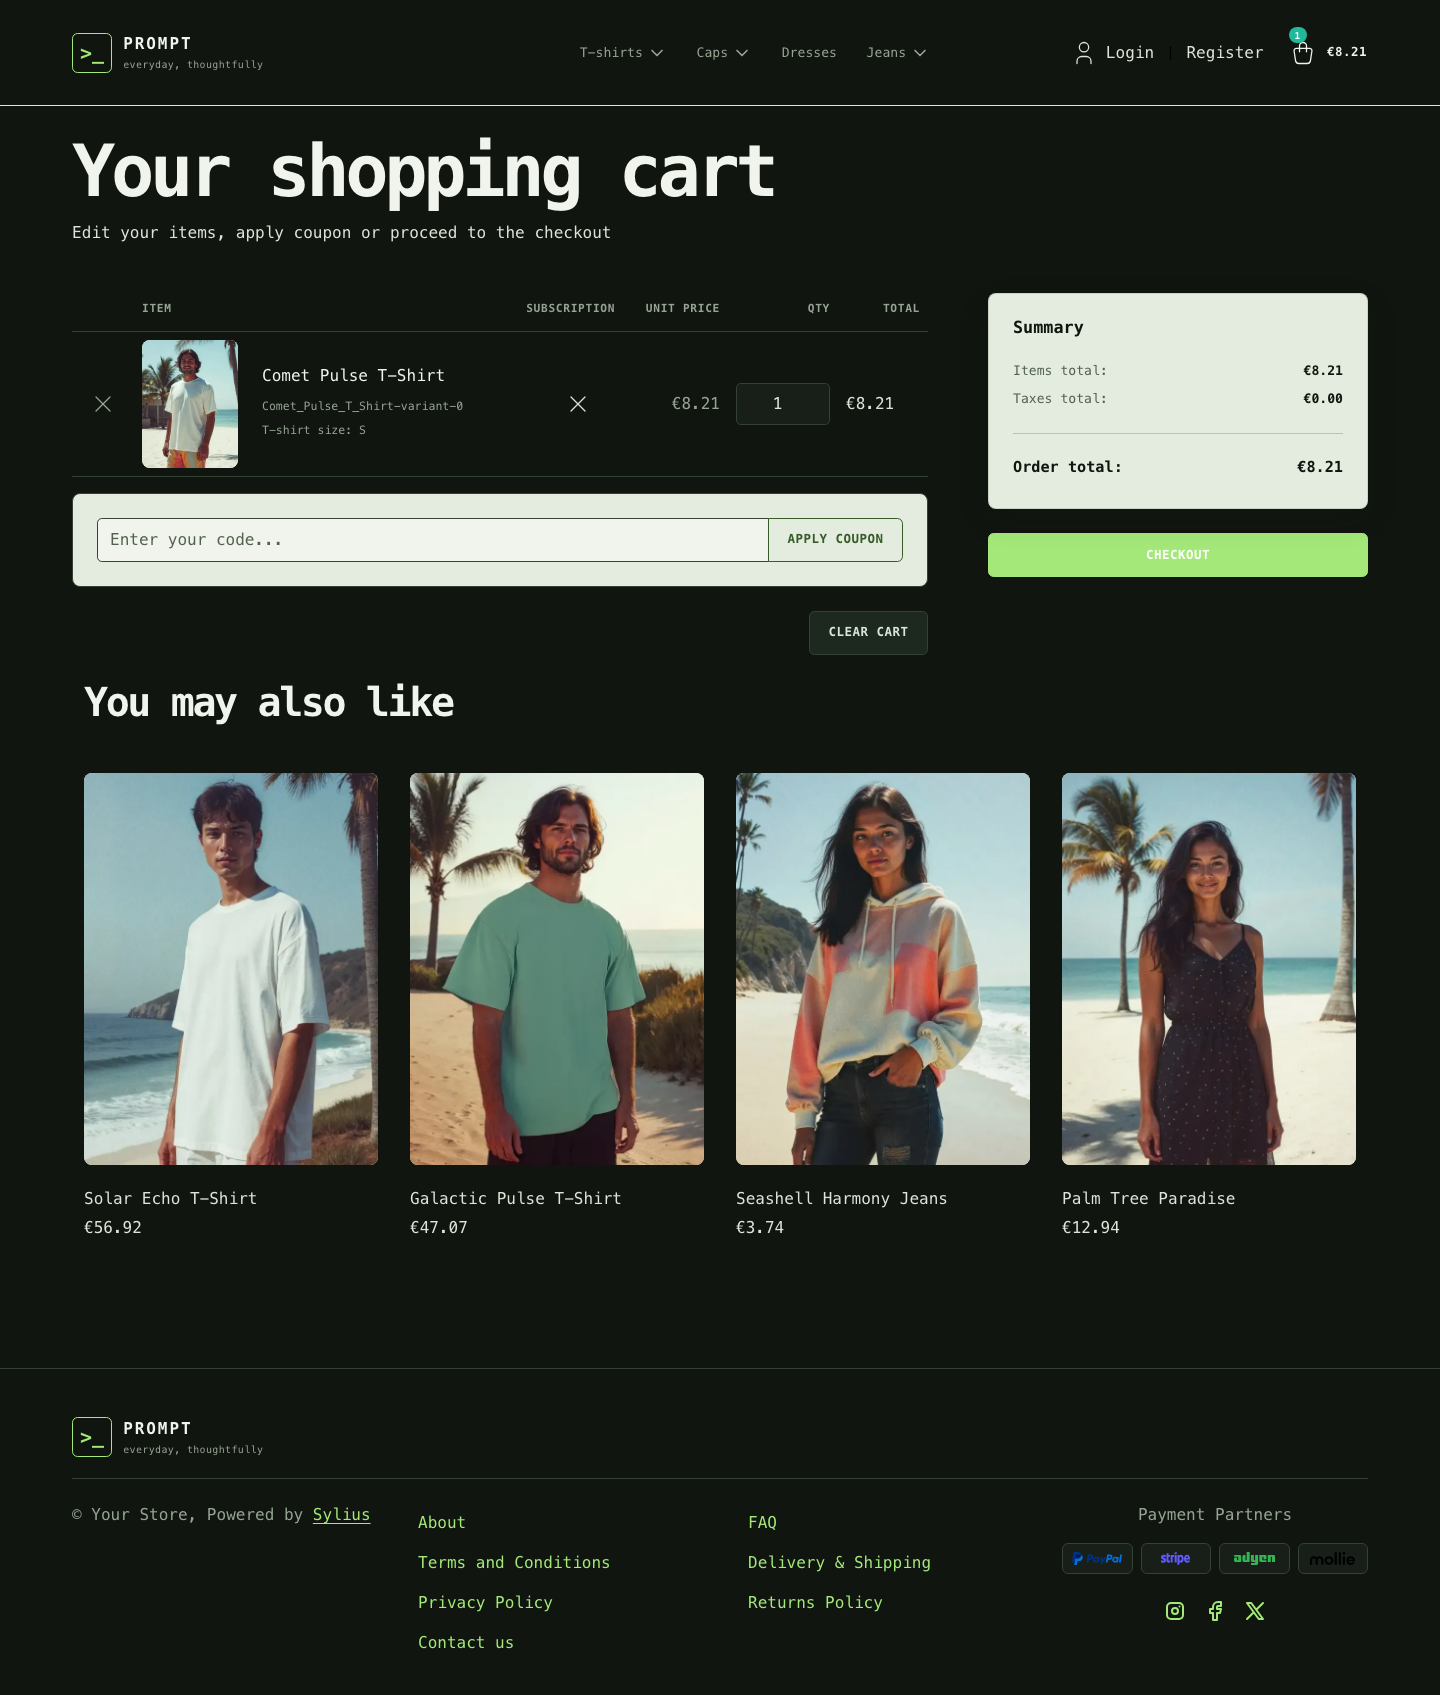
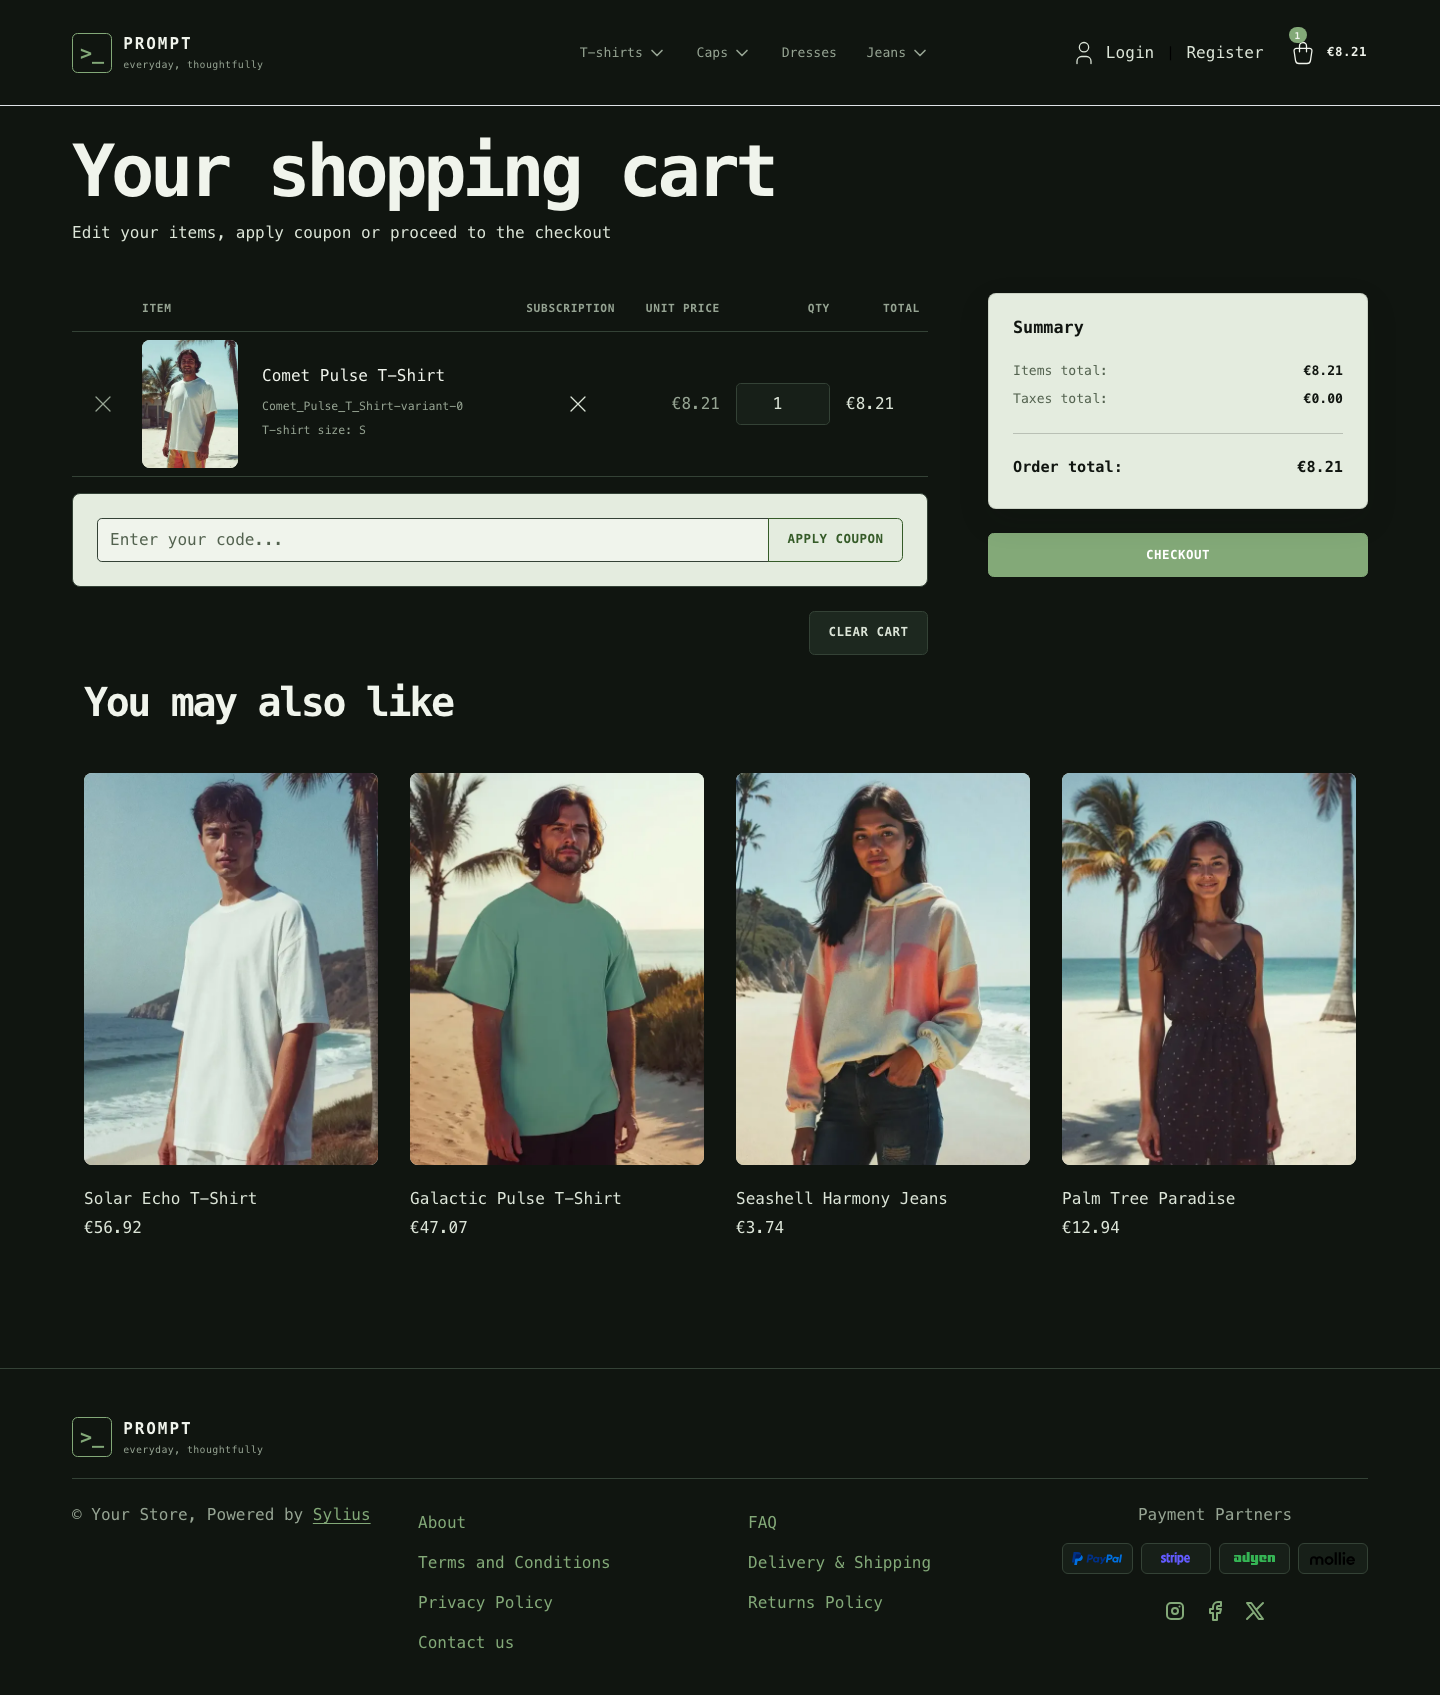
feat(themes): Improve the Prompt theme

diff --git a/resources/theme/prompt/assets/shop/styles/_breadcrumbs.scss b/resources/theme/prompt/assets/shop/styles/_breadcrumbs.scss
@@ -8,7 +8,15 @@
   letter-spacing: 0.02em;
 
   .breadcrumb-item a {
-    color: $green;
+    color: $green !important;
+  }
+
+  .breadcrumb-item:not(.active) .text-body-tertiary {
+    color: $white !important;
+  }
+
+  .breadcrumb-item.active .text-body-tertiary {
+    color: $white !important;
   }
 
   .breadcrumb-item.active {

diff --git a/resources/theme/prompt/assets/shop/styles/_header.scss b/resources/theme/prompt/assets/shop/styles/_header.scss
@@ -163,6 +163,11 @@ header .navbar-brand {
   }
 }
 
+.prompt-cart-button .badge {
+  background-color: $green !important;
+  color: $white !important;
+}
+
 @media (max-width: 991.98px) {
   .prompt-category-nav__menu {
     position: fixed;

diff --git a/resources/theme/prompt/assets/shop/styles/_variables.scss b/resources/theme/prompt/assets/shop/styles/_variables.scss
@@ -8,7 +8,7 @@ $white: #F0F4EC;
 $background: #101510;
 $surface: #171F18;
 $surface-raised: #1D281F;
-$green: #A4E879;
+$green: #83A978;
 $green-soft: #23351F;
 $light: #E4ECDF;
 $light-text: #101510;

diff --git a/resources/theme/prompt/assets/shop/styles/_buttons.scss b/resources/theme/prompt/assets/shop/styles/_buttons.scss
@@ -17,7 +17,8 @@
   }
 }
 
-.btn-primary {
+.btn-primary,
+.btn-success {
   --bs-btn-color: #{$black};
   --bs-btn-bg: #{$green};
   --bs-btn-border-color: #{$green};
